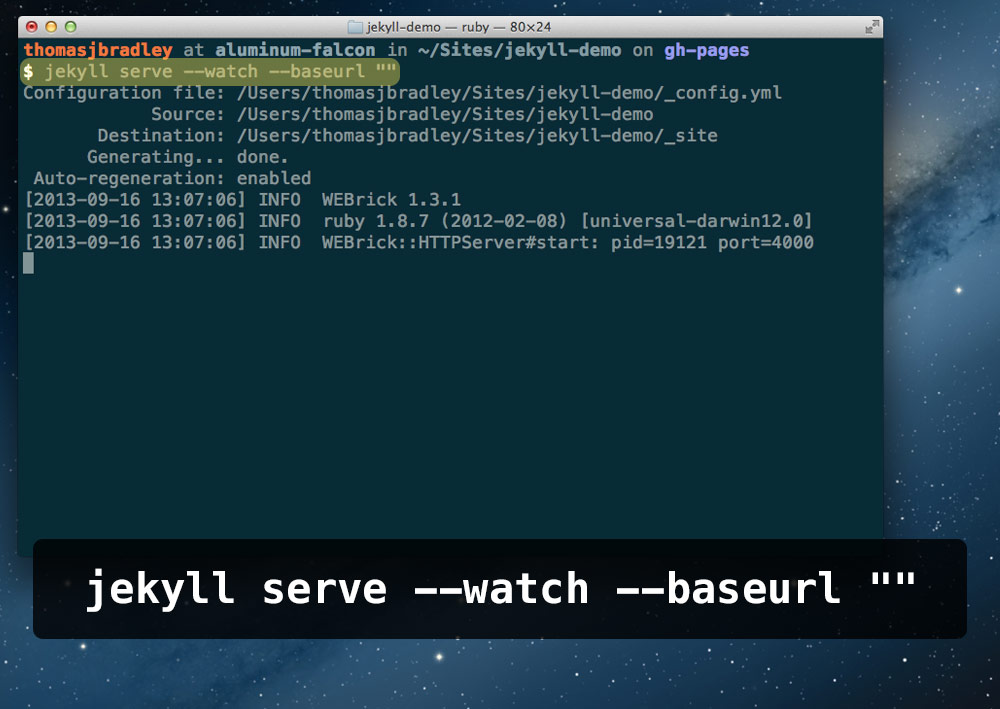
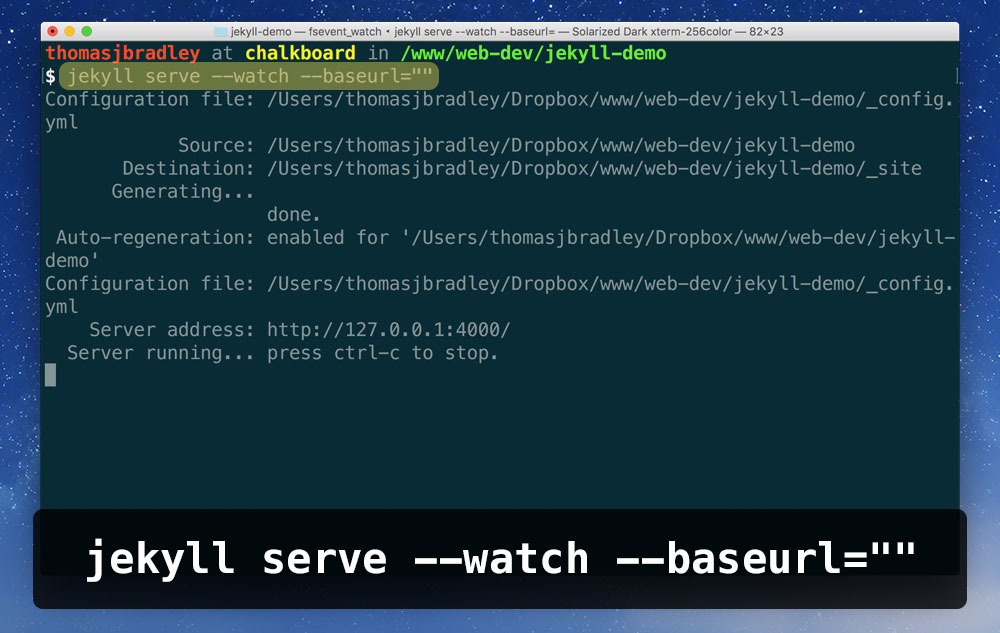
Update terminal guide to newer version of Jekyll

diff --git a/jekyll-terminal-guide/index.md b/jekyll-terminal-guide/index.md
@@ -2,13 +2,15 @@
 group: web-dev-4
 ---
 
-This cheat sheet assumes running Jekyll on GitHub Pages and that you’ve followed the setup directions here: <http://jekyllrb.com/docs/github-pages/>
+Jekyll is a command line tool so we have to use the Terminal application on our computer to start, stop, and run Jekyll.
 
 ---
 
 ## Open folder in Terminal
 
-Click `Repository > Open in Terminal` in the GitHub application.
+*This guide assumes you’re running Jekyll on GitHub Pages and that you’ve followed the setup directions here: [**☛ Jekyll installation**](/topics/jekyll-installation/)*
+
+In the GitHub application, click `Repository > Open in Terminal`.
 
 ![](open.jpg)
 
@@ -18,21 +20,27 @@ Click `Repository > Open in Terminal` in the GitHub application.
 
 ## Run Jekyll
 
+When in Terminal, type the following command:
+
 ```bash
-$ jekyll serve --watch --baseurl ""
+$ jekyll serve --watch --baseurl=""
 ```
 
 ![](start.jpg)
 
-Jekyll will now be available in your browser at the following URL: **<http://localhost:4000>**
+Jekyll will now be available in your browser at the following URL: **<http://127.0.0.1:4000>**.
+
+You can see the address Jekyll provides in the Terminal, under the “Server Address” entry:
+
+![](url.jpg)
+
+**Keep this running the whole time you’re working on your Jekyll website.**
 
 ---
 
 ## Stop Jekyll
 
-```
-Control+C
-```
+In Terminal, you can press the following shortcut key: `Control+C`
 
 ![](stop.jpg)
 
